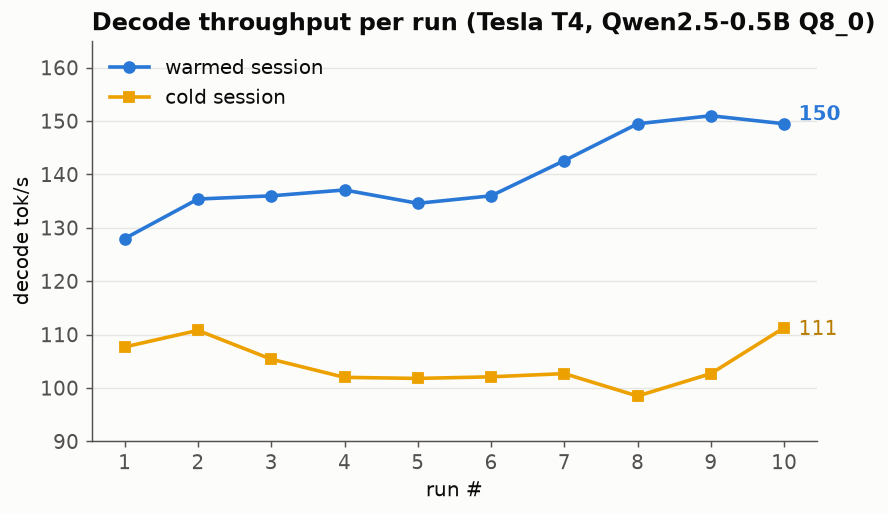
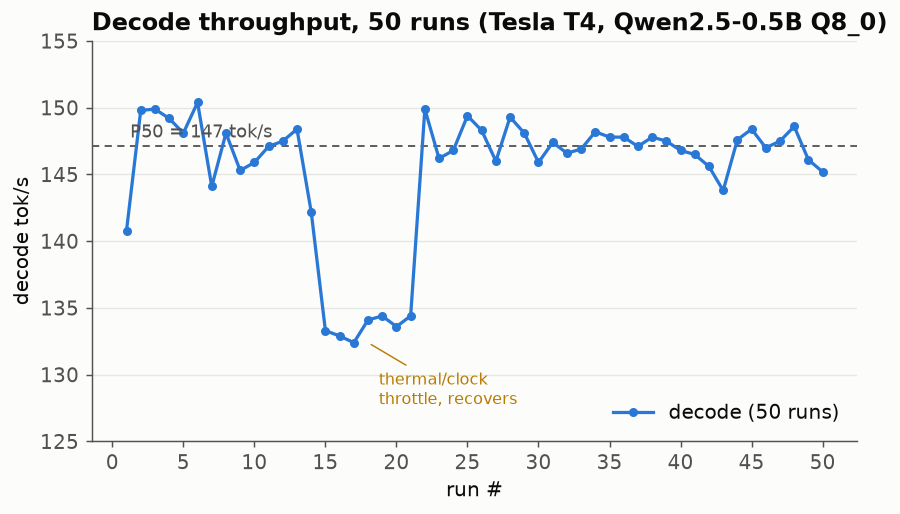
docs(glcuda): refine benchmark with 50-run distribution
Definitive throughput pass: 50 runs on the warmed T4, run 1 dropped.
Decode P50 147.1 tok/s (P95 149.9, sigma 5.1) with a brief thermal
throttle dip to ~133 at runs 15-21 that self-recovers; prefill P50
221.7 (sigma 2.2). Report as a distribution per ArchGLML_X2 section 22,
not a peak. Graph 1 now shows all 50 runs with the P50 line and the
throttle dip annotated.

diff --git a/docs/ArchGLCuda/gen_graphs.py b/docs/ArchGLCuda/gen_graphs.py
@@ -60,28 +60,38 @@ decode_a = [107.7, 110.8, 105.4, 102.0, 101.8, 102.1, 102.7, 98.5, 102.7, 111.3]
 decode_b = [128.0, 135.4, 136.0, 137.1, 134.6, 136.0, 142.6, 149.5, 151.0, 149.5]  # warmed session
 prefill_b = [183.8, 229.4, 226.9, 228.2, 223.0, 227.5, 227.2, 227.6, 230.2, 227.1]
 
+# Definitive 50-run pass (warmed). Decode P50 147, P95 150; a brief dip to
+# ~133 at runs 15-21 is a thermal/clock throttle that recovers. Prefill is
+# rock-steady at ~222 (stdev 2.2).
+run50 = list(range(1, 51))
+decode50 = [140.8,149.8,149.9,149.2,148.1,150.4,144.1,148.1,145.3,145.9,147.1,147.5,148.4,142.2,133.3,132.9,132.4,134.1,134.4,133.6,134.4,149.9,146.2,146.8,149.4,148.3,146.0,149.3,148.1,145.9,147.4,146.6,146.9,148.2,147.8,147.8,147.1,147.8,147.5,146.8,146.5,145.6,143.8,147.6,148.4,147.0,147.5,148.6,146.1,145.2]
+prefill50 = [191.1,224.6,224.3,223.9,224.4,223.2,224.1,223.4,223.2,224.5,223.9,222.5,222.7,222.4,220.8,216.4,230.9,223.8,223.1,223.0,217.3,223.8,220.6,222.1,221.8,222.1,220.9,221.7,221.3,221.1,221.5,220.7,220.8,222.5,220.9,221.1,221.7,221.2,222.0,220.1,221.0,220.7,220.8,222.5,220.9,221.1,221.7,217.7,219.8,220.8]
+
 # ==========================================================================
-# GRAPH 1 — decode tok/s across runs (warmup curve)
+# GRAPH 1 — decode tok/s across 50 runs (distribution + throttle dip)
 # ==========================================================================
 def graph_decode_runs():
-    fig, ax = plt.subplots(figsize=(7.2, 4.0))
+    import statistics as st
+    p50 = st.median(decode50[1:])  # drop warmup run 1
+    fig, ax = plt.subplots(figsize=(7.6, 4.0))
     style(ax)
-    ax.plot(run_idx, decode_b, color=BLUE, linewidth=2, marker="o", markersize=6,
-            zorder=3, label="warmed session")
-    ax.plot(run_idx, decode_a, color=YELLOW, linewidth=2, marker="s", markersize=5,
-            zorder=2, label="cold session")
-    # direct labels at the last point of each
-    ax.annotate(f"{decode_b[-1]:.0f}", (run_idx[-1], decode_b[-1]),
-                textcoords="offset points", xytext=(8, 2), color=BLUE, fontweight="bold")
-    ax.annotate(f"{decode_a[-1]:.0f}", (run_idx[-1], decode_a[-1]),
-                textcoords="offset points", xytext=(8, -4), color="#b87c00")
+    ax.plot(run50, decode50, color=BLUE, linewidth=1.8, marker="o", markersize=4,
+            zorder=3, label="decode (50 runs)")
+    ax.axhline(p50, color=INK2, linewidth=1, linestyle=(0, (4, 3)), zorder=2)
+    ax.annotate(f"P50 = {p50:.0f} tok/s", (1, p50), textcoords="offset points",
+                xytext=(2, 5), color=INK2, fontsize=10)
+    # call out the throttle dip
+    ax.annotate("thermal/clock\nthrottle, recovers", (18, 132.4),
+                textcoords="offset points", xytext=(6, -34), color="#b87c00",
+                fontsize=9, ha="left",
+                arrowprops=dict(arrowstyle="-", color="#b87c00", linewidth=0.8))
     ax.set_xlabel("run #")
     ax.set_ylabel("decode tok/s")
-    ax.set_title("Decode throughput per run (Tesla T4, Qwen2.5-0.5B Q8_0)",
+    ax.set_title("Decode throughput, 50 runs (Tesla T4, Qwen2.5-0.5B Q8_0)",
                  fontweight="bold", loc="left", color=INK)
-    ax.xaxis.set_major_locator(MultipleLocator(1))
-    ax.set_ylim(90, 165)
-    ax.legend(frameon=False, loc="upper left")
+    ax.xaxis.set_major_locator(MultipleLocator(5))
+    ax.set_ylim(125, 155)
+    ax.legend(frameon=False, loc="lower right")
     fig.savefig(os.path.join(OUT, "benchmark_img1.png"))
     plt.close(fig)
     print("wrote benchmark_img1.png")
@@ -94,7 +104,7 @@ def graph_prefill_vs_decode():
     fig, ax = plt.subplots(figsize=(6.0, 4.0))
     style(ax)
     labels = ["prefill", "decode"]
-    vals = [st.median(prefill_b), st.median(decode_b)]
+    vals = [st.median(prefill50[1:]), st.median(decode50[1:])]
     colors = [AQUA, BLUE]
     bars = ax.bar(labels, vals, color=colors, width=0.55, zorder=3)
     for b, v in zip(bars, vals):
@@ -116,7 +126,8 @@ def graph_ceiling():
     style(ax)
     # weights streamed per token ~ 0.5 GB (Q8_0 0.5B). T4 peak BW 320 GB/s,
     # achievable typically ~0.8x. Decode = weight stream once per token.
-    measured = 150.0                     # best steady decode
+    import statistics as st
+    measured = st.median(decode50[1:])   # P50 steady decode (147)
     bw_peak_max = 320 / 0.5              # 640 tok/s at peak bandwidth
     bw_real_max = 256 / 0.5             # ~512 tok/s at ~80% achievable
     labels = ["measured\n(now)", "achievable-BW\nceiling (~80%)", "peak-BW\nceiling"]

diff --git a/docs/ArchGLCuda/BENCHMARK_ArchGLCuda.md b/docs/ArchGLCuda/BENCHMARK_ArchGLCuda.md
@@ -31,6 +31,7 @@ python docs/ArchGLCuda/gen_graphs.py
 | Load time | ~0.76 s (tokenizer 0.10 + stage 0.41 + upload 0.18) |
 | Prompt | 29 tokens (ChatML-wrapped) |
 | Sampling | temperature 0.7, top-k 40, top-p 0.95, repeat-penalty 1.1 |
+| Protocol | 50 runs of 128-token generation, run 1 discarded as warmup |
 | Build | `--release` |
 
 Reproduce with `glcuda_t4_validation.ipynb` (§8 runs the model, §9 the
@@ -40,26 +41,34 @@ microbenchmark).
 
 ## Throughput
 
-### Decode warms up
+### Decode: 50-run distribution
 
-Decode tok/s is not flat run-to-run — it ramps over the first several runs as
-caches and clocks warm, then settles. The two sessions below are the same
-binary on the same T4; the "warmed" session had the GPU already hot.
+Reported as a distribution, not a peak (ArchGLML_X2 §22). Warmed T4, 50 runs of
+128-token generation, run 1 discarded as warmup:
 
-![decode throughput per run](benchmark_img1.png)
+| Metric | Decode | Prefill |
+|---|---|---|
+| **P50 (median)** | **147.1 tok/s** | **221.7 tok/s** |
+| P95 | 149.9 | 224.5 |
+| P99 | 150.2 | — |
+| min | 132.4 | 216.4 |
+| max | 150.4 | 230.9 |
+| stdev | 5.1 | 2.2 |
 
-Steady-state decode lands around **150 tok/s**; a cold GPU starts nearer
-**105–110 tok/s**. Always discard warmup runs when quoting a number (the
-benchmark protocol in ArchGLML_X2 §22 says exactly this).
+![decode throughput, 50 runs](benchmark_img1.png)
+
+Decode is tight (σ 5.1) around **147 tok/s**, except a dip to ~133 across runs
+15–21 — a thermal/clock throttle on the shared Colab T4 that recovers on its
+own. Prefill is rock-steady (σ 2.2). A cold GPU starts nearer 105–110; always
+discard warmup.
 
 ### Prefill vs decode
 
 ![prefill vs decode](benchmark_img2.png)
 
-Prefill (~227 tok/s) is faster than decode (~150 tok/s) because prompt tokens
-are processed with the weights already resident and warm, and prefill does not
-pay the per-token host round-trip that decode does. Reported separately on
-purpose — blending them hides the real decode speed.
+Prefill (~222 tok/s) outpaces decode (~147 tok/s): prompt tokens run with the
+weights already warm and skip the per-token host round-trip that decode pays.
+Reported separately on purpose — blending them hides the real decode speed.
 
 ---
 
@@ -76,9 +85,9 @@ memory bandwidth**.
 |---|---|---|
 | Peak bandwidth | ~640 | 320 GB/s / 0.5 GB per token |
 | Achievable (~80%) | ~512 | GDDR6 rarely sustains peak |
-| **Measured (now)** | **~150** | steady-state decode |
+| **Measured (P50)** | **147** | steady-state decode |
 
-That puts decode at roughly **29% of achievable bandwidth** — about a **3.4x**
+That puts decode at roughly **29% of achievable bandwidth** — about a **3.5x**
 headroom remaining. `nvidia-smi` reports ~22% GPU utilization during decode,
 consistent with the GPU being **idle most of the time**: the bottleneck is
 latency / serialization, not throughput.